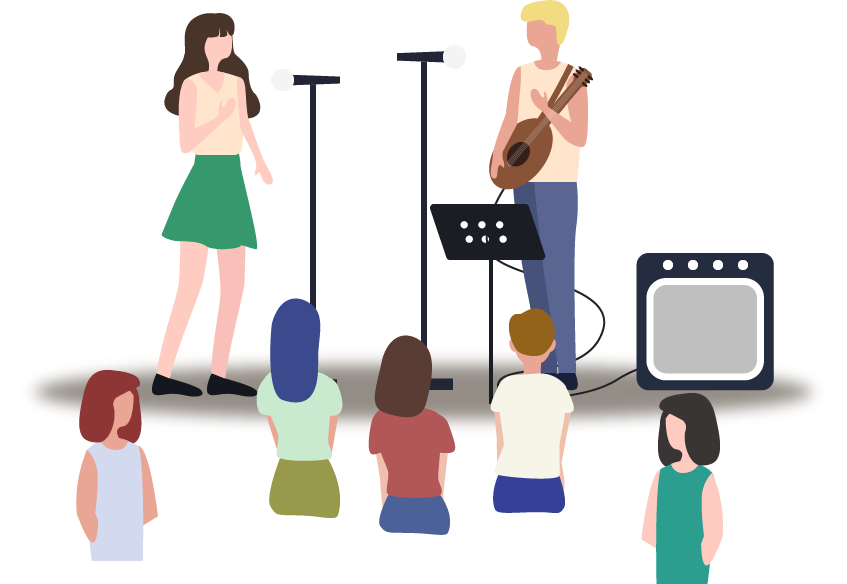
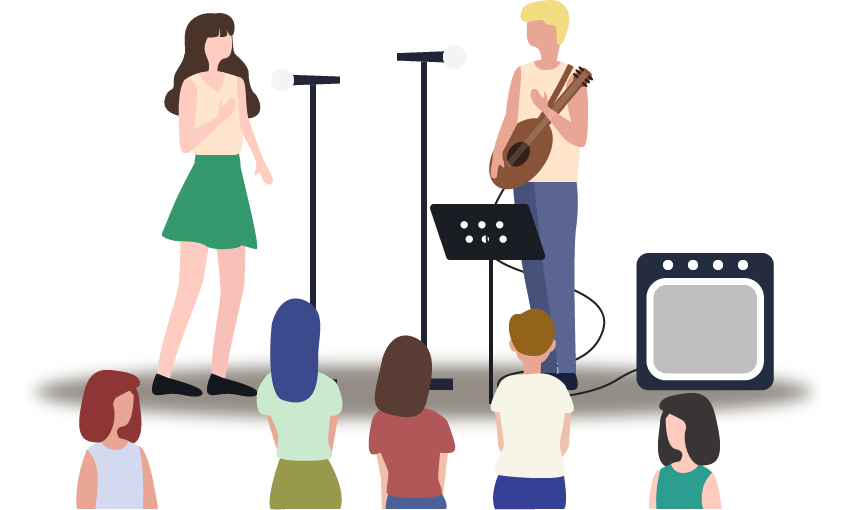
[update] -전시 그림 사이즈 조정 완료! 이제 그냥 나머지 부스들 올리면 된다:)

diff --git a/Exhibition_Page/page1/page1.html b/Exhibition_Page/page1/page1.html
@@ -41,14 +41,15 @@
     </div>
     
     <div class="main-wrapper">      <!--하늘(별)-산-땅-가로등-나무-부스 순서-->
-        <img src="images/background(0)/sky2---.png" alt="전시-하늘" class="background-sky" width="10281px">
-        <img src="images/background(0)/star2.png" alt="전시-별" class="background-star" height="956px">
-        <img src="images/background(0)/mountain.png" alt="전시-산" class="background-mountain" width="10281px">
-        <img src="images/background(0)/ground.png" alt="전시-땅" class="background-ground" width="10281px">
-        <img src="images/booth(1)/streetLamp.png" alt="전시-가로등" class="background-streetLamp" width="9350px">
-        <img src="images/background(0)/tree.png" alt="전시-나무" class="background-tree" width="9450px">
+        <img src="images/background(0)/sky2---.png" alt="전시-하늘" class="background-sky" width="8000px">
+        <img src="images/background(0)/star2.png" alt="전시-별" class="background-star" height="744px">
+        <img src="images/background(0)/mountain.png" alt="전시-산" class="background-mountain" width="8000px">
+        <img src="images/background(0)/ground.png" alt="전시-땅" class="background-ground" width="8000px">
+        <img src="images/booth(1)/streetLamp.png" alt="전시-가로등" class="background-streetLamp" width="7300px">
+        <img src="images/background(0)/tree.png" alt="전시-나무" class="background-tree" width="7300px">
         <!--부스-->
-        <img src="images/booth(1)/busking.png" alt="전시-버스킹" class="busking" height="50%">
+        <img src="images/booth(1)/banner.png" alt="전시-배너" class="banner" height="47%">
+        <img src="images/booth(1)/busking.png" alt="전시-버스킹" class="busking" height="47%">
     </div> 
     
 </body>

diff --git a/Exhibition_Page/page1/style_page1.css b/Exhibition_Page/page1/style_page1.css
@@ -128,8 +128,6 @@ input[id="navbar_menu"]:checked + label + div {
 
 .main-wrapper{
     position: relative;
-    width: 100%;
-    height: 960px;
 }
 
 .background-star{
@@ -152,18 +150,24 @@ input[id="navbar_menu"]:checked + label + div {
 
 .background-streetLamp{
     position: absolute;
-    bottom: 90px;
-    left: 900px;
+    bottom: 70px;
+    left: 700px;
 }
 
 .background-tree{
     position: absolute;
     bottom: 40px;
-    left: 700px;
+    left: 550px;
+}
+
+.banner{
+    position: absolute;
+    bottom: 50px;
+    left: 1750px;
 }
 
 .busking{
     position: absolute;
     bottom: 0;
-    left: 2000px;
+    left: 2800px;
 }
